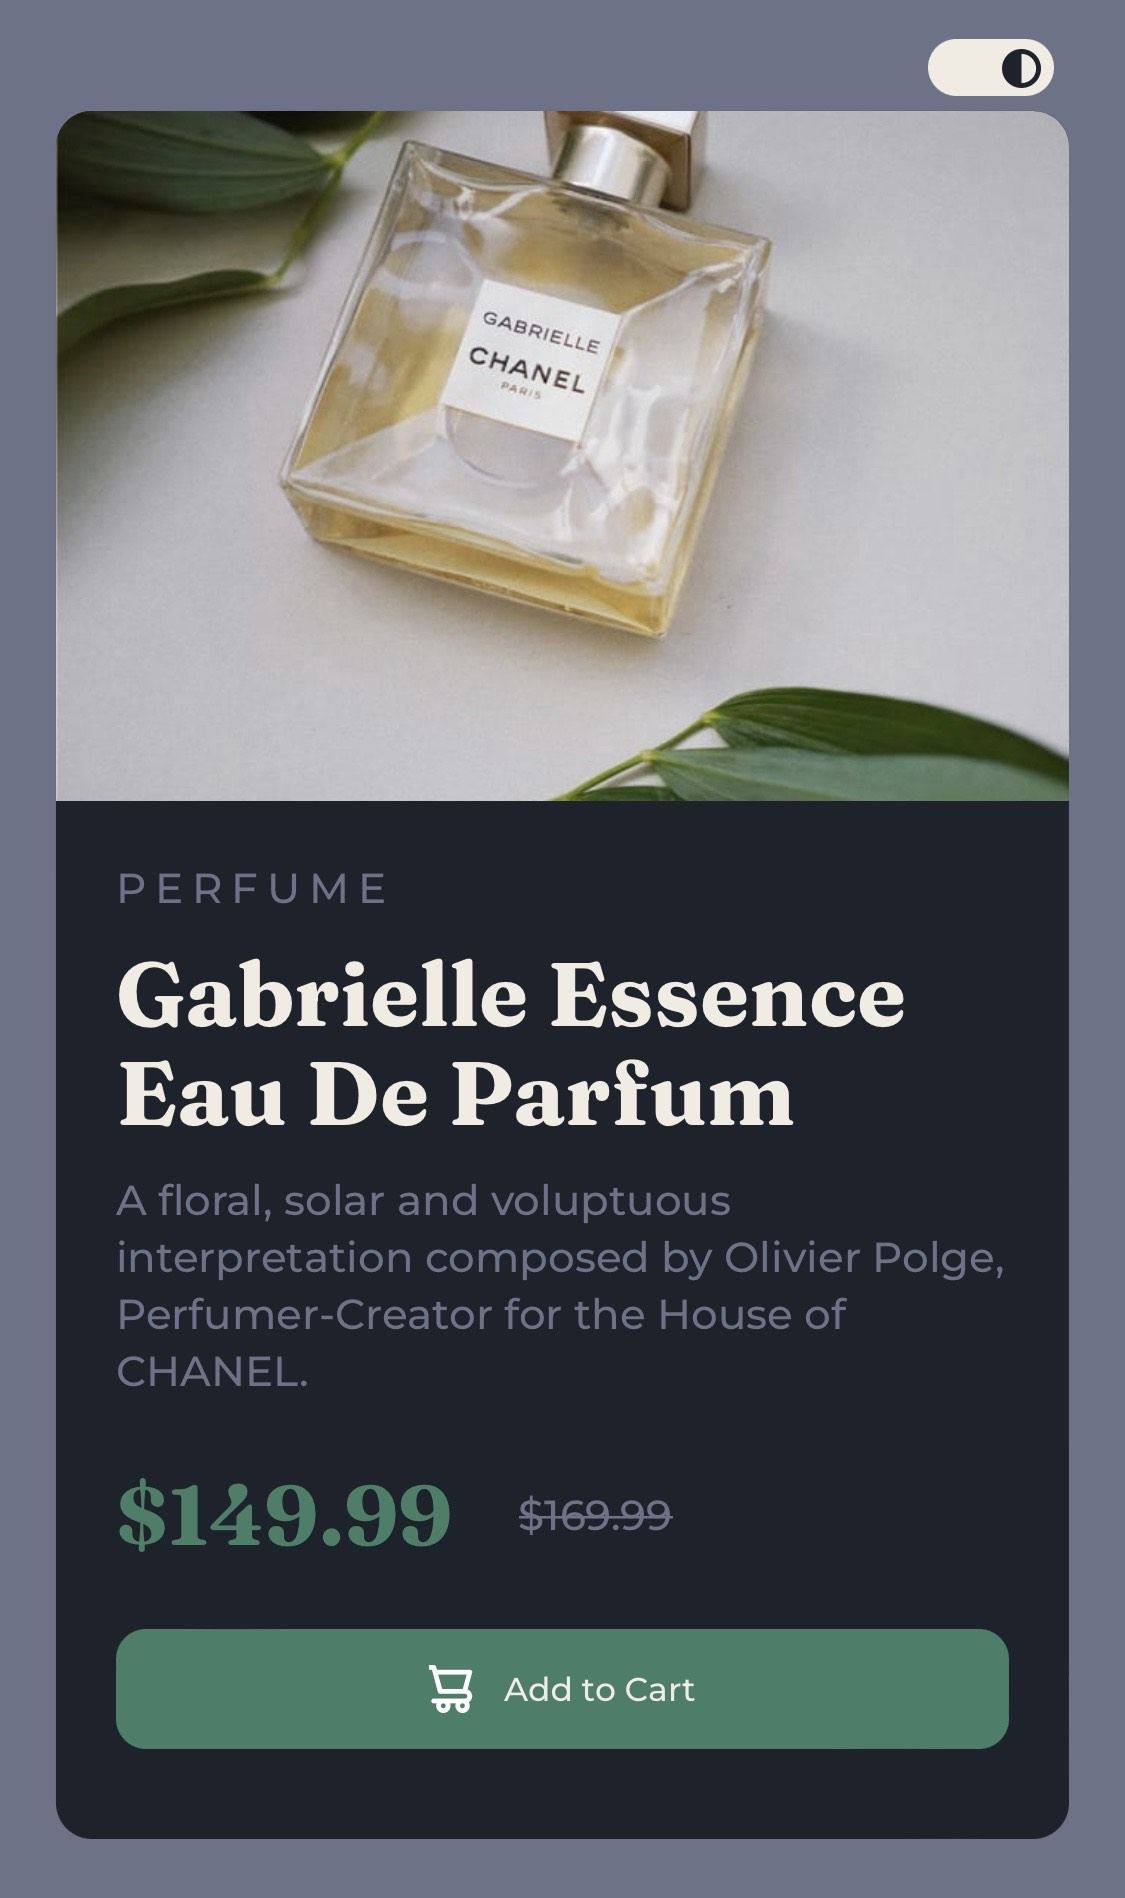
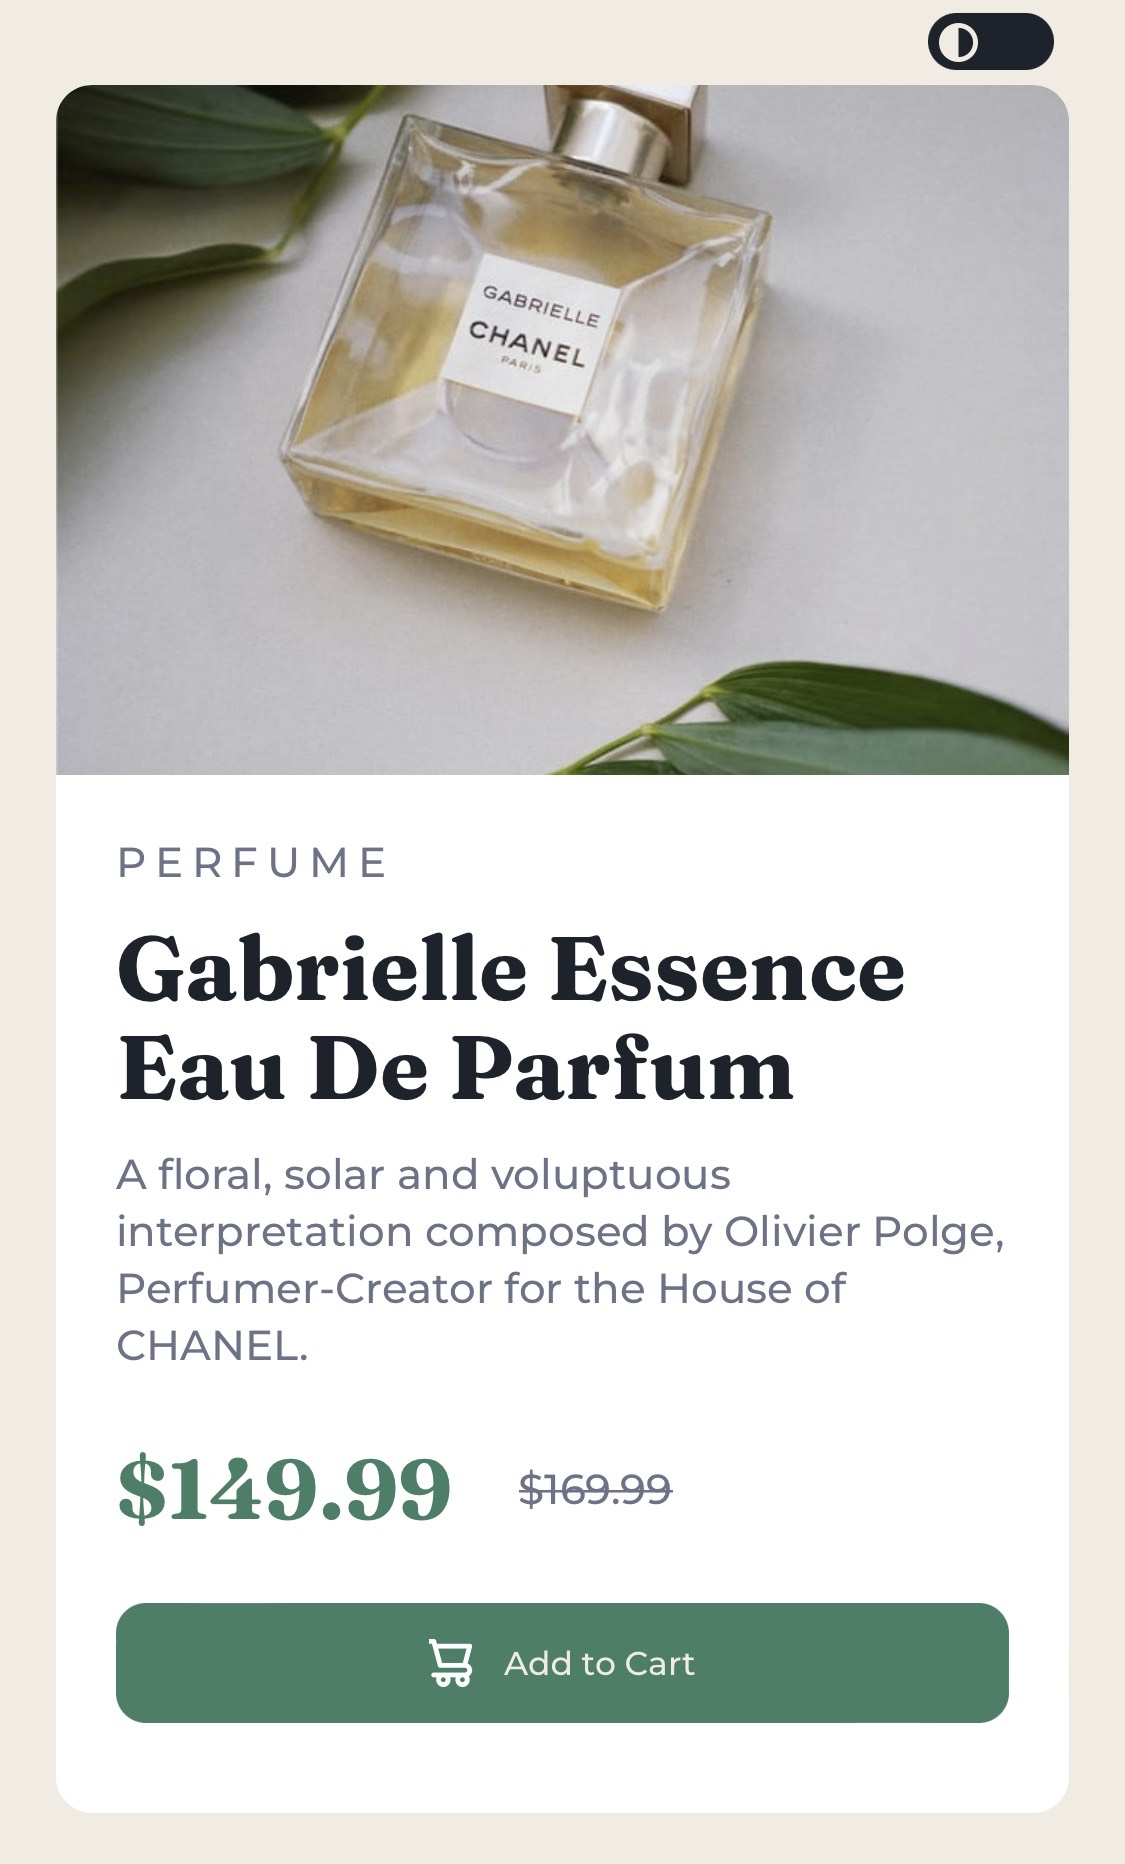
add mobile view screenshots

diff --git a/README.md b/README.md
@@ -39,10 +39,10 @@ On hover/focus
 #### Mobile view
 
 Light
-![](./img/mobile-screenshot-light.png) 
+![](./img/mobile-screenshot-light.jpg) 
 
 Dark
-![](./img/mobile-screenshot-dark.png)
+![](./img/mobile-screenshot-dark.jpg)
 
 
 ### Links
